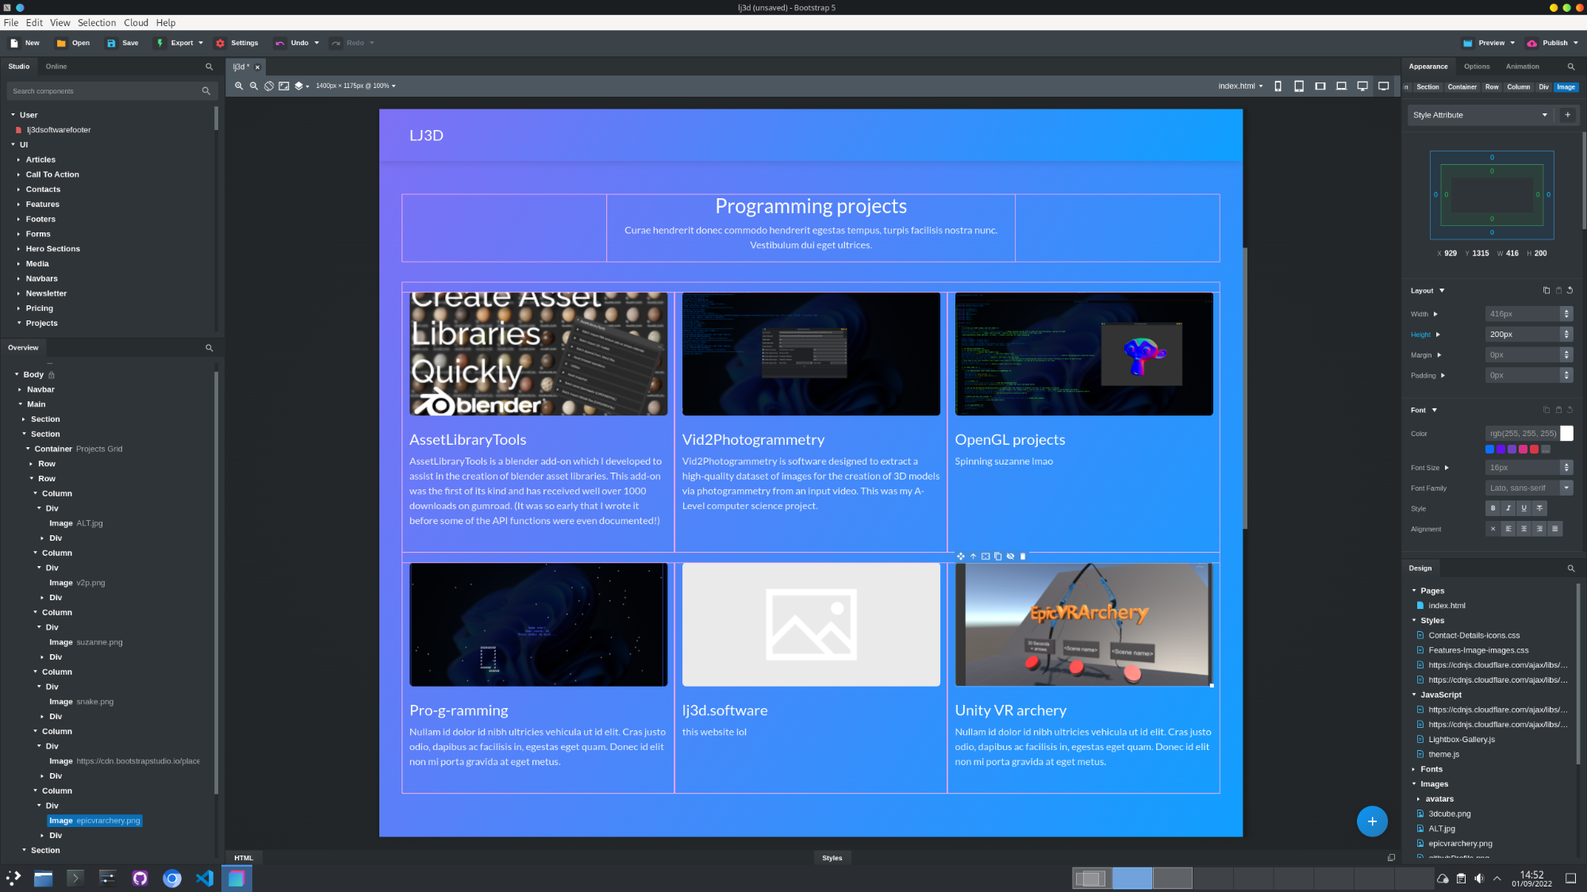
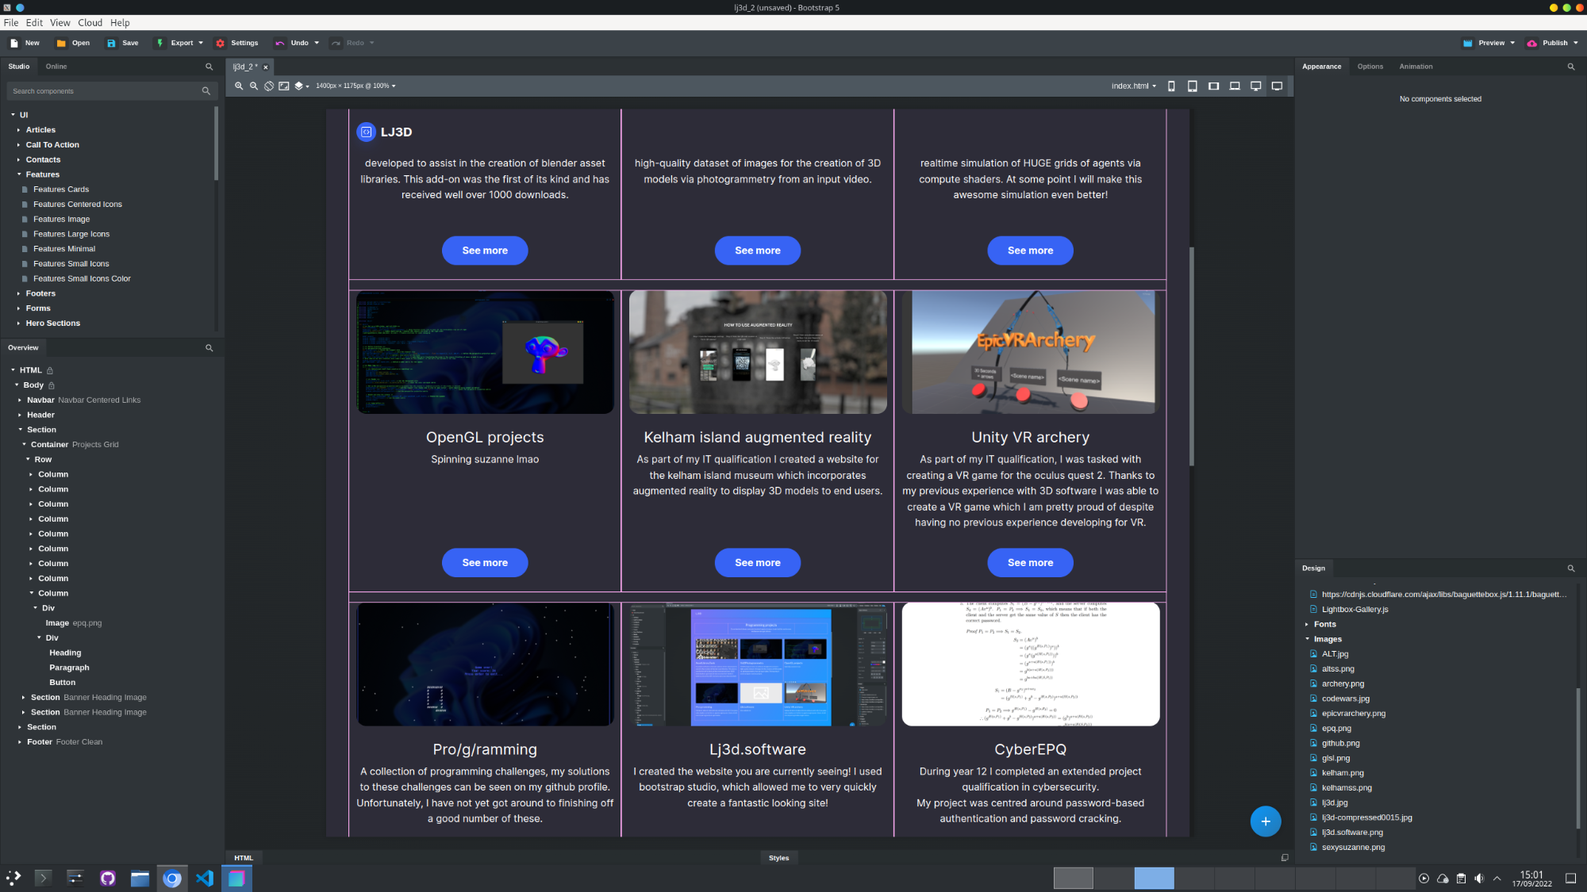
epq

diff --git a/index.html b/index.html
@@ -9,7 +9,7 @@
   <path d="M8.051 1.999h.089c.822.003 4.987.033 6.11.335a2.01 2.01 0 0 1 1.415 1.42c.101.38.172.883.22 1.402l.01.104.022.26.008.104c.065.914.073 1.77.074 1.957v.075c-.001.194-.01 1.108-.082 2.06l-.008.105-.009.104c-.05.572-.124 1.14-.235 1.558a2.007 2.007 0 0 1-1.415 1.42c-1.16.312-5.569.334-6.18.335h-.142c-.309 0-1.587-.006-2.927-.052l-.17-.006-.087-.004-.171-.007-.171-.007c-1.11-.049-2.167-.128-2.654-.26a2.007 2.007 0 0 1-1.415-1.419c-.111-.417-.185-.986-.235-1.558L.09 9.82l-.008-.104A31.4 31.4 0 0 1 0 7.68v-.123c.002-.215.01-.958.064-1.778l.007-.103.003-.052.008-.104.022-.26.01-.104c.048-.519.119-1.023.22-1.402a2.007 2.007 0 0 1 1.415-1.42c.487-.13 1.544-.21 2.654-.26l.17-.007.172-.006.086-.003.171-.007A99.788 99.788 0 0 1 7.858 2h.193zM6.4 5.209v4.818l4.157-2.408L6.4 5.209z"></path>
 </svg></div><div class="px-2"><h6 class="text-start mb-0">Youtube</h6><p class="mb-0">youtube.com/LJ3Dyoutube</p></div></div><div class="d-flex align-items-center p-3"><div class="bs-icon-md bs-icon-rounded bs-icon-primary d-flex flex-shrink-0 justify-content-center align-items-center d-inline-block bs-icon"><svg xmlns="http://www.w3.org/2000/svg" width="1em" height="1em" fill="currentColor" viewBox="0 0 16 16" class="bi bi-pin">
   <path d="M4.146.146A.5.5 0 0 1 4.5 0h7a.5.5 0 0 1 .5.5c0 .68-.342 1.174-.646 1.479-.126.125-.25.224-.354.298v4.431l.078.048c.203.127.476.314.751.555C12.36 7.775 13 8.527 13 9.5a.5.5 0 0 1-.5.5h-4v4.5c0 .276-.224 1.5-.5 1.5s-.5-1.224-.5-1.5V10h-4a.5.5 0 0 1-.5-.5c0-.973.64-1.725 1.17-2.189A5.921 5.921 0 0 1 5 6.708V2.277a2.77 2.77 0 0 1-.354-.298C4.342 1.674 4 1.179 4 .5a.5.5 0 0 1 .146-.354zm1.58 1.408-.002-.001.002.001zm-.002-.001.002.001A.5.5 0 0 1 6 2v5a.5.5 0 0 1-.276.447h-.002l-.012.007-.054.03a4.922 4.922 0 0 0-.827.58c-.318.278-.585.596-.725.936h7.792c-.14-.34-.407-.658-.725-.936a4.915 4.915 0 0 0-.881-.61l-.012-.006h-.002A.5.5 0 0 1 10 7V2a.5.5 0 0 1 .295-.458 1.775 1.775 0 0 0 .351-.271c.08-.08.155-.17.214-.271H5.14c.06.1.133.191.214.271a1.78 1.78 0 0 0 .37.282z"></path>
-</svg></div><div class="px-2"><h6 class="text-start mb-0">Location</h6><p class="mb-0">Sheffield</p></div></div></div></div></div></div></header><section class="py-5"><div class="container py-4 py-xl-5"><div class="row gy-3 row-cols-1 row-cols-md-2 row-cols-xl-3 justify-content-center"><div class="col"><div><img class="rounded img-fluid d-block w-100 fit-cover" style="height: 200px;" src="assets/img/ALT.jpg"><div class="text-center py-4"><h4>AssetLibraryTools</h4><p style="height: 140px;">AssetLibraryTools is a blender add-on which I developed to assist in the creation of blender asset libraries. This add-on was the first of its kind and has received well over 1000 downloads.</p><a class="btn btn-primary" role="button" href="assetLibraryTools.html">See more</a></div></div></div><div class="col text-center"><div><img class="rounded img-fluid d-block w-100 fit-cover" style="height: 200px;" src="assets/img/v2p.png"><div class="py-4"><h4>Vid2Photogrammetry</h4><p style="height: 140px;">Vid2Photogrammetry is software designed to extract a high-quality dataset of images for the creation of 3D models via photogrammetry from an input video.</p><a class="btn btn-primary" role="button" href="vid2Photogrammetry.html">See more</a></div></div></div><div class="col text-center"><div><img class="rounded img-fluid d-block w-100 fit-cover" style="height: 200px;" src="assets/img/glsl.png"><div class="py-4"><h4>GLSL cellular automaton</h4><p style="height: 140px;">An OpenGL powered cellular automaton, capable of realtime simulation of HUGE grids of agents via compute shaders. At some point I will make this awesome simulation even better!<br></p><button class="btn btn-primary" type="button">See more</button></div></div></div><div class="col text-center"><div><img class="rounded img-fluid d-block w-100 fit-cover" style="height: 200px;" src="assets/img/suzanne.png"><div class="py-4"><h4>OpenGL projects</h4><p style="height: 140px;">Spinning suzanne lmao</p><a class="btn btn-primary" role="button" href="openGLProjects.html">See more</a></div></div></div><div class="col"><div><img class="rounded img-fluid d-block w-100 fit-cover" style="height: 200px;" src="assets/img/kelham.png"><div class="text-center py-4"><h4>Kelham island augmented reality</h4><p style="height: 140px;">As part of my IT qualification I created a website for the kelham island museum which incorporates augmented reality to display 3D models to end users.</p><a class="btn btn-primary" role="button" href="kelhamIsland.html">See more</a></div></div></div><div class="col"><div><img class="rounded img-fluid d-block w-100 fit-cover" style="height: 200px;" src="assets/img/epicvrarchery.png"><div class="text-center py-4"><h4>Unity VR archery</h4><p style="height: 140px;">As part of my IT qualification, I was tasked with creating a VR game for the oculus quest 2. Thanks to my previous experience with 3D software I was able to create a VR game which I am pretty proud of despite having no previous experience developing for VR.</p><a class="btn btn-primary" role="button" href="vrArchery.html">See more</a></div></div></div><div class="col text-center"><div><img class="rounded img-fluid d-block w-100 fit-cover" style="height: 200px;" src="assets/img/snake.png"><div class="py-4"><h4>Pro/g/ramming</h4><p style="height: 140px;">A collection of programming challenges, my solutions to these challenges can be seen on my github profile.<br>Unfortunately, I have not yet got around to finishing off a good number of these.</p><button class="btn btn-primary" type="button">See more</button></div></div></div><div class="col text-center"><div><img class="rounded img-fluid d-block w-100 fit-cover" style="height: 200px;" src="assets/img/lj3d.software.png"><div class="py-4"><h4>Lj3d.software</h4><p style="height: 140px;">I created the website you are currently seeing! I used bootstrap studio, which allowed me to very quickly create a fantastic looking site!</p><button class="btn btn-primary" type="button">See more</button></div></div></div></div></div><section class="py-4 py-xl-5"><div class="container"><div class="bg-dark border rounded border-0 border-dark overflow-hidden"><div class="row g-0"><div class="col-md-6"><div class="text-white p-4 p-md-5"><h2 class="fw-bold text-white mb-3">My codewars profile</h2><p class="mb-4">Codewars is an educational community for computer programming. On the platform, software developers train on programming challenges known as kata.<br>I use occasionally Codewars to practice C++, my solutions to a variety of problems can be seen on my profile</p><div class="text-center my-3"><a class="btn btn-primary btn-lg me-2" role="button" href="https://www.codewars.com/users/LJ3D" style="margin-top: 29px;">Visit my codewars profile</a></div></div></div><div class="col-md-6 order-first order-md-last" style="min-height: 250px;"><img class="w-100 h-100 fit-cover" src="assets/img/codewars.jpg"></div></div></div></div></section><section class="py-4 py-xl-5"><div class="container"><div class="bg-dark border rounded border-0 border-dark overflow-hidden"><div class="row g-0"><div class="col-md-6"><div class="text-white p-4 p-md-5"><h2 class="fw-bold text-white mb-3">My github profile</h2><p class="mb-4">Most of my projects can be viewed on github, this website is in fact currently hosted using github pages!</p><div class="text-center my-3"><a class="btn btn-primary btn-lg me-2" role="button" href="https://www.github.com/lj3d" style="margin-top: 29px;">Visit my github profile</a></div></div></div><div class="col-md-6 order-first order-md-last" style="min-height: 250px;"><img class="w-100 h-100 fit-cover" src="assets/img/github.png"></div></div></div></div></section></section><section class="portfolio-block skills"><div class="container"><div class="heading"><h2>My skills at a glance</h2></div><div class="row justify-content-center"><div class="col-md-4"><div class="card special-skill-item border-0"><div class="card-header bg-transparent border-0"></div><div class="card-body" style="color: var(--bs-card-bg);background: #27262e;border-top-left-radius: 15px;border-top-right-radius: 15px;border-bottom-right-radius: 15px;border-bottom-left-radius: 15px;height: 180px;"><h3 class="card-title"><i class="icon ion-compose" style="padding-right: 16px;"></i>C++</h3><p class="card-text">C++ is my go-to language for most of my projects. Out of all the languages I have used, I know C++ the best.</p></div></div></div><div class="col-md-4"><div class="card special-skill-item border-0"><div class="card-header bg-transparent border-0"></div><div class="card-body" style="color: var(--bs-card-bg);background: #27262e;border-top-left-radius: 15px;border-top-right-radius: 15px;border-bottom-right-radius: 15px;border-bottom-left-radius: 15px;height: 180px;"><h3 class="card-title"><i class="icon ion-social-python" style="padding-right: 16px;"></i>Python</h3><p class="card-text">I've used python for a variety of different things, mostly smaller-scale projects such as scripting.</p></div></div></div><div class="col-md-4"><div class="card special-skill-item border-0"><div class="card-header bg-transparent border-0"></div><div class="card-body" style="color: var(--bs-card-bg);background: #27262e;border-top-left-radius: 15px;border-top-right-radius: 15px;border-bottom-right-radius: 15px;border-bottom-left-radius: 15px;height: 180px;"><h3 class="card-title"><i class="icon ion-cube" style="padding-right: 16px;"></i>Blender API</h3><p class="card-text">Making AssetLibraryTools meant I spent too long learning this thing.</p></div></div></div><div class="col-md-4"><div class="card special-skill-item border-0"><div class="card-header bg-transparent border-0"></div><div class="card-body" style="color: var(--bs-card-bg);background: #27262e;border-top-left-radius: 15px;border-top-right-radius: 15px;border-bottom-right-radius: 15px;border-bottom-left-radius: 15px;height: 180px;"><h3 class="card-title"><i class="icon ion-image" style="padding-right: 16px;"></i>OpenCV</h3><p class="card-text">I have used OpenCV for image processing projects in C++, my most recent project involving OpenCV was Vid2Photogrammetry.</p></div></div></div><div class="col-md-4"><div class="card special-skill-item border-0"><div class="card-header bg-transparent border-0"></div><div class="card-body" style="color: var(--bs-card-bg);background: #27262e;border-top-left-radius: 15px;border-top-right-radius: 15px;border-bottom-right-radius: 15px;border-bottom-left-radius: 15px;height: 180px;"><h3 class="card-title"><i class="icon ion-ios-game-controller-b" style="padding-right: 16px;"></i>Unity VR</h3><p class="card-text">Made a VR game in unity once, it was an awful experience but the game turned out good lol.</p></div></div></div><div class="col-md-4"><div class="card special-skill-item border-0"><div class="card-header bg-transparent border-0"></div><div class="card-body" style="color: var(--bs-card-bg);background: #27262e;border-top-left-radius: 15px;border-top-right-radius: 15px;border-bottom-right-radius: 15px;border-bottom-left-radius: 15px;height: 180px;"><h3 class="card-title"><i class="icon ion-code" style="padding-right: 16px;"></i>CMake</h3><p class="card-text">I compile my projects with CMake most of the time.</p></div></div></div><div class="col-md-4"><div class="card special-skill-item border-0"><div class="card-header bg-transparent border-0"></div><div class="card-body" style="color: var(--bs-card-bg);background: #27262e;border-top-left-radius: 15px;border-top-right-radius: 15px;border-bottom-right-radius: 15px;border-bottom-left-radius: 15px;height: 180px;"><h3 class="card-title"><i class="icon ion-social-tux" style="padding-right: 16px;"></i>Linux</h3><p class="card-text">I do most of my programming on Linux.<br>Arch + KDE.</p></div></div></div><div class="col-md-4"><div class="card special-skill-item border-0"><div class="card-header bg-transparent border-0"></div><div class="card-body" style="color: var(--bs-card-bg);background: #27262e;border-top-left-radius: 15px;border-top-right-radius: 15px;border-bottom-right-radius: 15px;border-bottom-left-radius: 15px;height: 180px;"><h3 class="card-title"><i class="icon ion-ios-grid-view-outline" style="padding-right: 16px;"></i>QT</h3><p class="card-text">I have used QT to create simple graphical user interfaces for desktop applications. This includes using QT designer and PyQT5</p></div></div></div><div class="col-md-4"><div class="card special-skill-item border-0"><div class="card-header bg-transparent border-0"></div><div class="card-body" style="color: var(--bs-card-bg);background: #27262e;border-top-left-radius: 15px;border-top-right-radius: 15px;border-bottom-right-radius: 15px;border-bottom-left-radius: 15px;height: 180px;"><h3 class="card-title"><svg xmlns="http://www.w3.org/2000/svg" width="1em" height="1em" fill="currentColor" viewBox="0 0 16 16" class="bi bi-bootstrap-fill" style="padding: 0px;padding-right: 16px;width: 46px;">
+</svg></div><div class="px-2"><h6 class="text-start mb-0">Location</h6><p class="mb-0">Sheffield</p></div></div></div></div></div></div></header><section class="py-5"><div class="container py-4 py-xl-5"><div class="row gy-3 row-cols-1 row-cols-md-2 row-cols-xl-3 justify-content-center"><div class="col"><div><img class="rounded img-fluid d-block w-100 fit-cover" style="height: 200px;" src="assets/img/ALT.jpg"><div class="text-center py-4"><h4>AssetLibraryTools</h4><p style="height: 140px;">AssetLibraryTools is a blender add-on which I developed to assist in the creation of blender asset libraries. This add-on was the first of its kind and has received well over 1000 downloads.</p><a class="btn btn-primary" role="button" href="assetLibraryTools.html">See more</a></div></div></div><div class="col text-center"><div><img class="rounded img-fluid d-block w-100 fit-cover" style="height: 200px;" src="assets/img/v2p.png"><div class="py-4"><h4>Vid2Photogrammetry</h4><p style="height: 140px;">Vid2Photogrammetry is software designed to extract a high-quality dataset of images for the creation of 3D models via photogrammetry from an input video.</p><a class="btn btn-primary" role="button" href="vid2Photogrammetry.html">See more</a></div></div></div><div class="col text-center"><div><img class="rounded img-fluid d-block w-100 fit-cover" style="height: 200px;" src="assets/img/glsl.png"><div class="py-4"><h4>GLSL cellular automaton</h4><p style="height: 140px;">An OpenGL powered cellular automaton, capable of realtime simulation of HUGE grids of agents via compute shaders. At some point I will make this awesome simulation even better!<br></p><button class="btn btn-primary" type="button">See more</button></div></div></div><div class="col text-center"><div><img class="rounded img-fluid d-block w-100 fit-cover" style="height: 200px;" src="assets/img/suzanne.png"><div class="py-4"><h4>OpenGL projects</h4><p style="height: 140px;">Spinning suzanne lmao</p><a class="btn btn-primary" role="button" href="openGLProjects.html">See more</a></div></div></div><div class="col"><div><img class="rounded img-fluid d-block w-100 fit-cover" style="height: 200px;" src="assets/img/kelham.png"><div class="text-center py-4"><h4>Kelham island augmented reality</h4><p style="height: 140px;">As part of my IT qualification I created a website for the kelham island museum which incorporates augmented reality to display 3D models to end users.</p><a class="btn btn-primary" role="button" href="kelhamIsland.html">See more</a></div></div></div><div class="col"><div><img class="rounded img-fluid d-block w-100 fit-cover" style="height: 200px;" src="assets/img/epicvrarchery.png"><div class="text-center py-4"><h4>Unity VR archery</h4><p style="height: 140px;">As part of my IT qualification, I was tasked with creating a VR game for the oculus quest 2. Thanks to my previous experience with 3D software I was able to create a VR game which I am pretty proud of despite having no previous experience developing for VR.</p><a class="btn btn-primary" role="button" href="vrArchery.html">See more</a></div></div></div><div class="col text-center"><div><img class="rounded img-fluid d-block w-100 fit-cover" style="height: 200px;" src="assets/img/snake.png"><div class="py-4"><h4>Pro/g/ramming</h4><p style="height: 140px;">A collection of programming challenges, my solutions to these challenges can be seen on my github profile.<br>Unfortunately, I have not yet got around to finishing off a good number of these.</p><button class="btn btn-primary" type="button">See more</button></div></div></div><div class="col text-center"><div><img class="rounded img-fluid d-block w-100 fit-cover" style="height: 200px;" src="assets/img/lj3d.software.png"><div class="py-4"><h4>Lj3d.software</h4><p style="height: 140px;">I created the website you are currently seeing! I used bootstrap studio, which allowed me to very quickly create a fantastic looking site!</p><button class="btn btn-primary" type="button">See more</button></div></div></div><div class="col text-center"><div><img class="rounded img-fluid d-block w-100 fit-cover" style="height: 200px;" src="assets/img/epq.png"><div class="py-4"><h4>CyberEPQ</h4><p style="height: 140px;">During year 12 I completed an extended project qualification in cybersecurity.<br>My project was centered around password-based authentication and password cracking.</p><button class="btn btn-primary" type="button">See more</button></div></div></div></div></div><section class="py-4 py-xl-5"><div class="container"><div class="bg-dark border rounded border-0 border-dark overflow-hidden"><div class="row g-0"><div class="col-md-6"><div class="text-white p-4 p-md-5"><h2 class="fw-bold text-white mb-3">My codewars profile</h2><p class="mb-4">Codewars is an educational community for computer programming. On the platform, software developers train on programming challenges known as kata.<br>I use occasionally Codewars to practice C++, my solutions to a variety of problems can be seen on my profile</p><div class="text-center my-3"><a class="btn btn-primary btn-lg me-2" role="button" href="https://www.codewars.com/users/LJ3D" style="margin-top: 29px;">Visit my codewars profile</a></div></div></div><div class="col-md-6 order-first order-md-last" style="min-height: 250px;"><img class="w-100 h-100 fit-cover" src="assets/img/codewars.jpg"></div></div></div></div></section><section class="py-4 py-xl-5"><div class="container"><div class="bg-dark border rounded border-0 border-dark overflow-hidden"><div class="row g-0"><div class="col-md-6"><div class="text-white p-4 p-md-5"><h2 class="fw-bold text-white mb-3">My github profile</h2><p class="mb-4">Most of my projects can be viewed on github, this website is in fact currently hosted using github pages!</p><div class="text-center my-3"><a class="btn btn-primary btn-lg me-2" role="button" href="https://www.github.com/lj3d" style="margin-top: 29px;">Visit my github profile</a></div></div></div><div class="col-md-6 order-first order-md-last" style="min-height: 250px;"><img class="w-100 h-100 fit-cover" src="assets/img/github.png"></div></div></div></div></section></section><section class="portfolio-block skills"><div class="container"><div class="heading"><h2>My skills at a glance</h2></div><div class="row justify-content-center"><div class="col-md-4"><div class="card special-skill-item border-0"><div class="card-header bg-transparent border-0"></div><div class="card-body" style="color: var(--bs-card-bg);background: #27262e;border-top-left-radius: 15px;border-top-right-radius: 15px;border-bottom-right-radius: 15px;border-bottom-left-radius: 15px;height: 180px;"><h3 class="card-title"><i class="icon ion-compose" style="padding-right: 16px;"></i>C++</h3><p class="card-text">C++ is my go-to language for most of my projects. Out of all the languages I have used, I know C++ the best.</p></div></div></div><div class="col-md-4"><div class="card special-skill-item border-0"><div class="card-header bg-transparent border-0"></div><div class="card-body" style="color: var(--bs-card-bg);background: #27262e;border-top-left-radius: 15px;border-top-right-radius: 15px;border-bottom-right-radius: 15px;border-bottom-left-radius: 15px;height: 180px;"><h3 class="card-title"><i class="icon ion-social-python" style="padding-right: 16px;"></i>Python</h3><p class="card-text">I've used python for a variety of different things, mostly smaller-scale projects such as scripting.</p></div></div></div><div class="col-md-4"><div class="card special-skill-item border-0"><div class="card-header bg-transparent border-0"></div><div class="card-body" style="color: var(--bs-card-bg);background: #27262e;border-top-left-radius: 15px;border-top-right-radius: 15px;border-bottom-right-radius: 15px;border-bottom-left-radius: 15px;height: 180px;"><h3 class="card-title"><i class="icon ion-cube" style="padding-right: 16px;"></i>Blender API</h3><p class="card-text">Making AssetLibraryTools meant I spent too long learning this thing.</p></div></div></div><div class="col-md-4"><div class="card special-skill-item border-0"><div class="card-header bg-transparent border-0"></div><div class="card-body" style="color: var(--bs-card-bg);background: #27262e;border-top-left-radius: 15px;border-top-right-radius: 15px;border-bottom-right-radius: 15px;border-bottom-left-radius: 15px;height: 180px;"><h3 class="card-title"><i class="icon ion-image" style="padding-right: 16px;"></i>OpenCV</h3><p class="card-text">I have used OpenCV for image processing projects in C++, my most recent project involving OpenCV was Vid2Photogrammetry.</p></div></div></div><div class="col-md-4"><div class="card special-skill-item border-0"><div class="card-header bg-transparent border-0"></div><div class="card-body" style="color: var(--bs-card-bg);background: #27262e;border-top-left-radius: 15px;border-top-right-radius: 15px;border-bottom-right-radius: 15px;border-bottom-left-radius: 15px;height: 180px;"><h3 class="card-title"><i class="icon ion-ios-game-controller-b" style="padding-right: 16px;"></i>Unity VR</h3><p class="card-text">Made a VR game in unity once, it was an awful experience but the game turned out good lol.</p></div></div></div><div class="col-md-4"><div class="card special-skill-item border-0"><div class="card-header bg-transparent border-0"></div><div class="card-body" style="color: var(--bs-card-bg);background: #27262e;border-top-left-radius: 15px;border-top-right-radius: 15px;border-bottom-right-radius: 15px;border-bottom-left-radius: 15px;height: 180px;"><h3 class="card-title"><i class="icon ion-code" style="padding-right: 16px;"></i>CMake</h3><p class="card-text">I compile my projects with CMake most of the time.</p></div></div></div><div class="col-md-4"><div class="card special-skill-item border-0"><div class="card-header bg-transparent border-0"></div><div class="card-body" style="color: var(--bs-card-bg);background: #27262e;border-top-left-radius: 15px;border-top-right-radius: 15px;border-bottom-right-radius: 15px;border-bottom-left-radius: 15px;height: 180px;"><h3 class="card-title"><i class="icon ion-social-tux" style="padding-right: 16px;"></i>Linux</h3><p class="card-text">I do most of my programming on Linux.<br>Arch + KDE.</p></div></div></div><div class="col-md-4"><div class="card special-skill-item border-0"><div class="card-header bg-transparent border-0"></div><div class="card-body" style="color: var(--bs-card-bg);background: #27262e;border-top-left-radius: 15px;border-top-right-radius: 15px;border-bottom-right-radius: 15px;border-bottom-left-radius: 15px;height: 180px;"><h3 class="card-title"><i class="icon ion-ios-grid-view-outline" style="padding-right: 16px;"></i>QT</h3><p class="card-text">I have used QT to create simple graphical user interfaces for desktop applications. This includes using QT designer and PyQT5</p></div></div></div><div class="col-md-4"><div class="card special-skill-item border-0"><div class="card-header bg-transparent border-0"></div><div class="card-body" style="color: var(--bs-card-bg);background: #27262e;border-top-left-radius: 15px;border-top-right-radius: 15px;border-bottom-right-radius: 15px;border-bottom-left-radius: 15px;height: 180px;"><h3 class="card-title"><svg xmlns="http://www.w3.org/2000/svg" width="1em" height="1em" fill="currentColor" viewBox="0 0 16 16" class="bi bi-bootstrap-fill" style="padding: 0px;padding-right: 16px;width: 46px;">
   <path d="M6.375 7.125V4.658h1.78c.973 0 1.542.457 1.542 1.237 0 .802-.604 1.23-1.764 1.23H6.375zm0 3.762h1.898c1.184 0 1.81-.48 1.81-1.377 0-.885-.65-1.348-1.886-1.348H6.375v2.725z"></path>
   <path d="M4.002 0a4 4 0 0 0-4 4v8a4 4 0 0 0 4 4h8a4 4 0 0 0 4-4V4a4 4 0 0 0-4-4h-8zm1.06 12V3.545h3.399c1.587 0 2.543.809 2.543 2.11 0 .884-.65 1.675-1.483 1.816v.1c1.143.117 1.904.931 1.904 2.033 0 1.488-1.084 2.396-2.888 2.396H5.062z"></path>
 </svg>Bootstrap studio</h3><p class="card-text">I have used bootstrap studio to quickly create a few simple but good-looking websites.</p></div></div></div></div></div></section><footer class="text-center py-4" style="margin-top: 50px;"><div class="col"><p class="text-muted my-2">Copyright&nbsp;© 2022 LJ3D</p></div></footer><script src="assets/js/jquery.min.js"></script><script src="assets/bootstrap/js/bootstrap.min.js"></script><script src="https://cdnjs.cloudflare.com/ajax/libs/baguettebox.js/1.11.1/baguetteBox.min.js"></script><script src="assets/js/script.min.js"></script></body></html>
